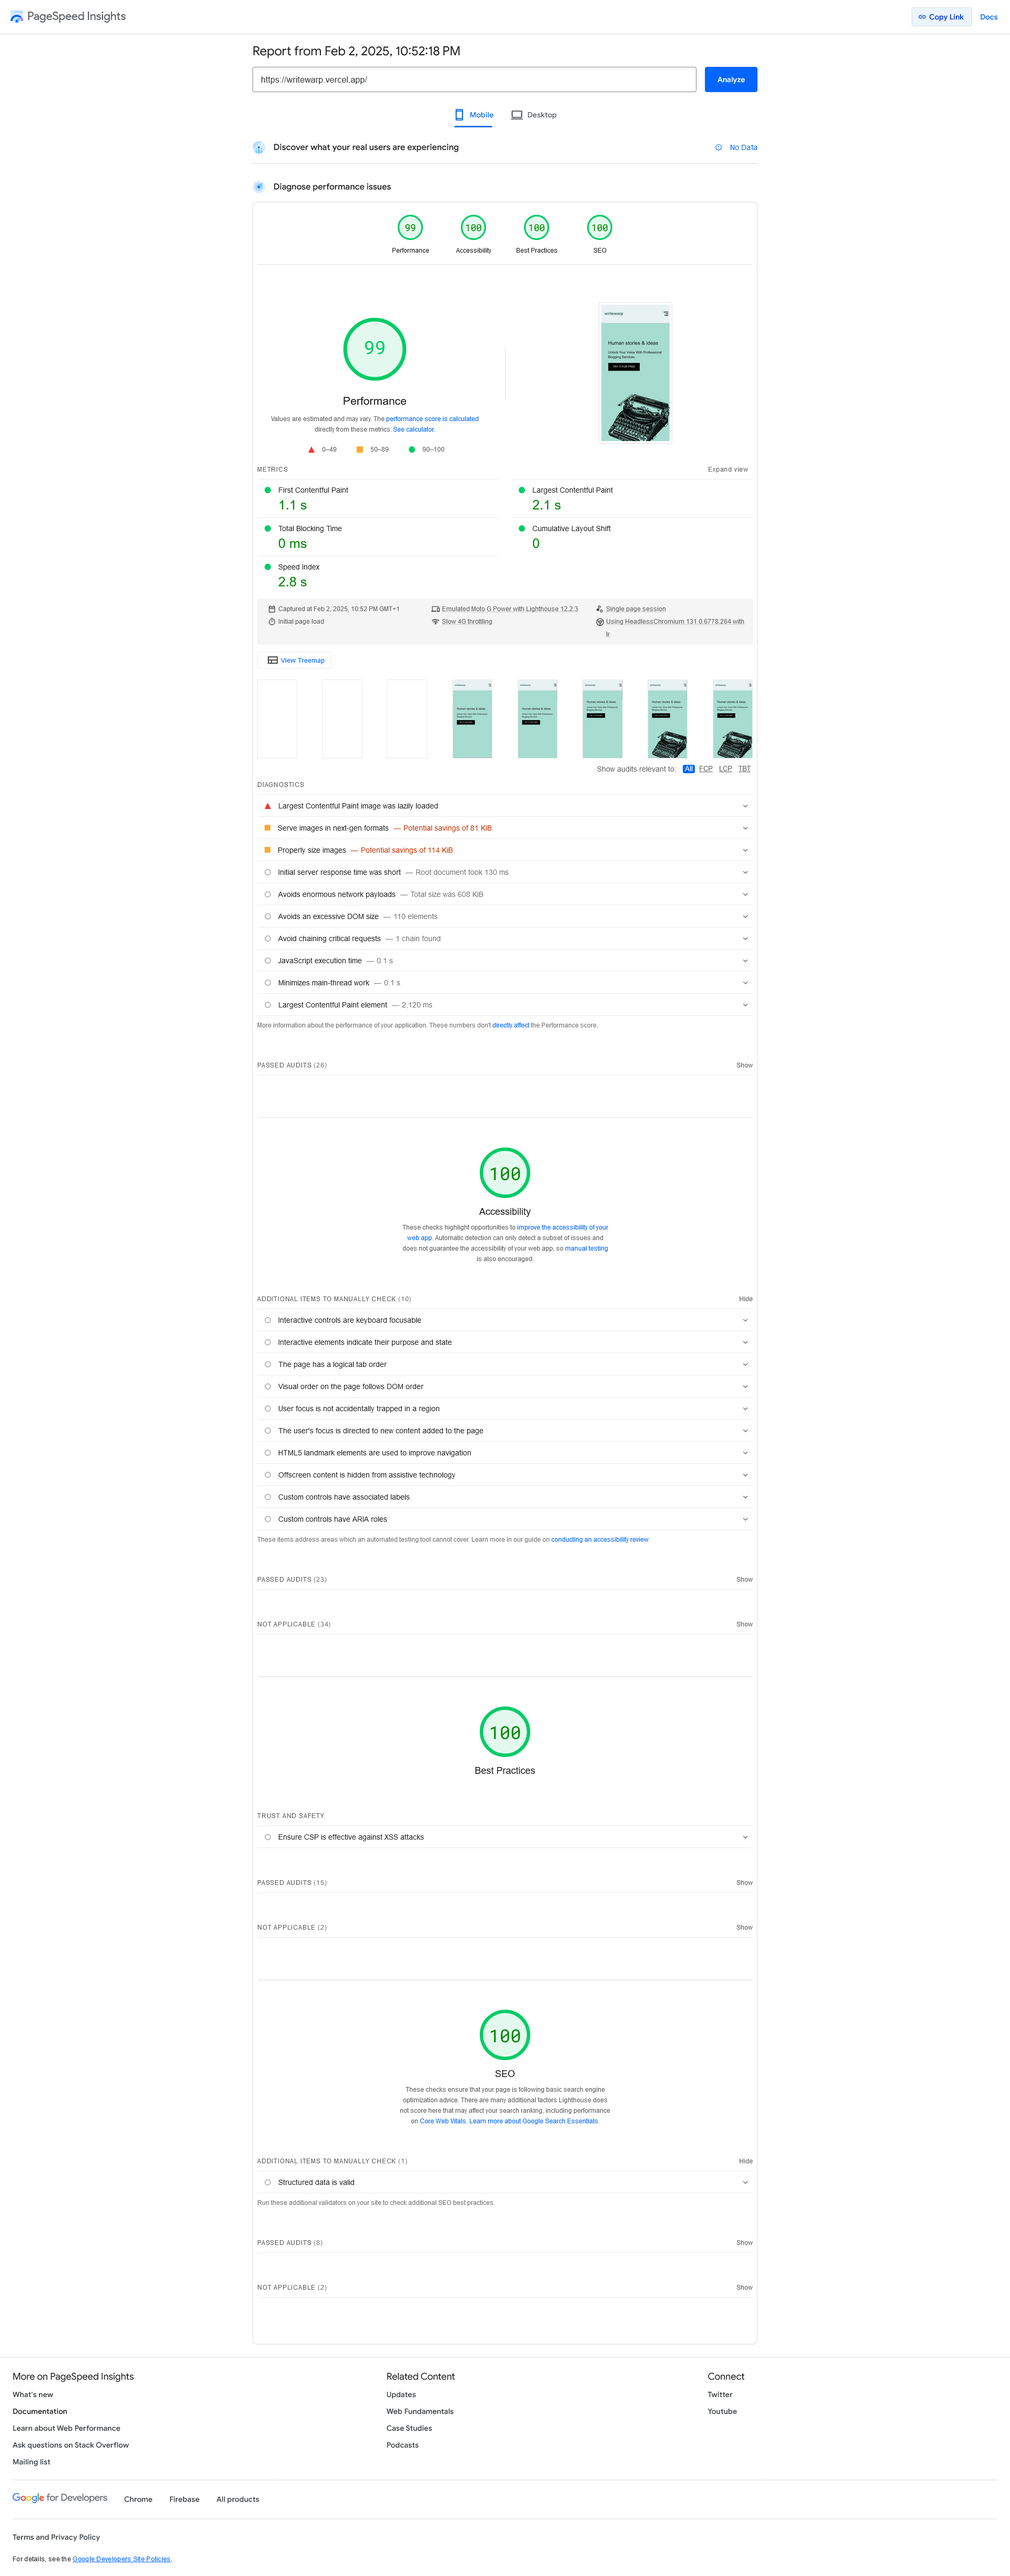
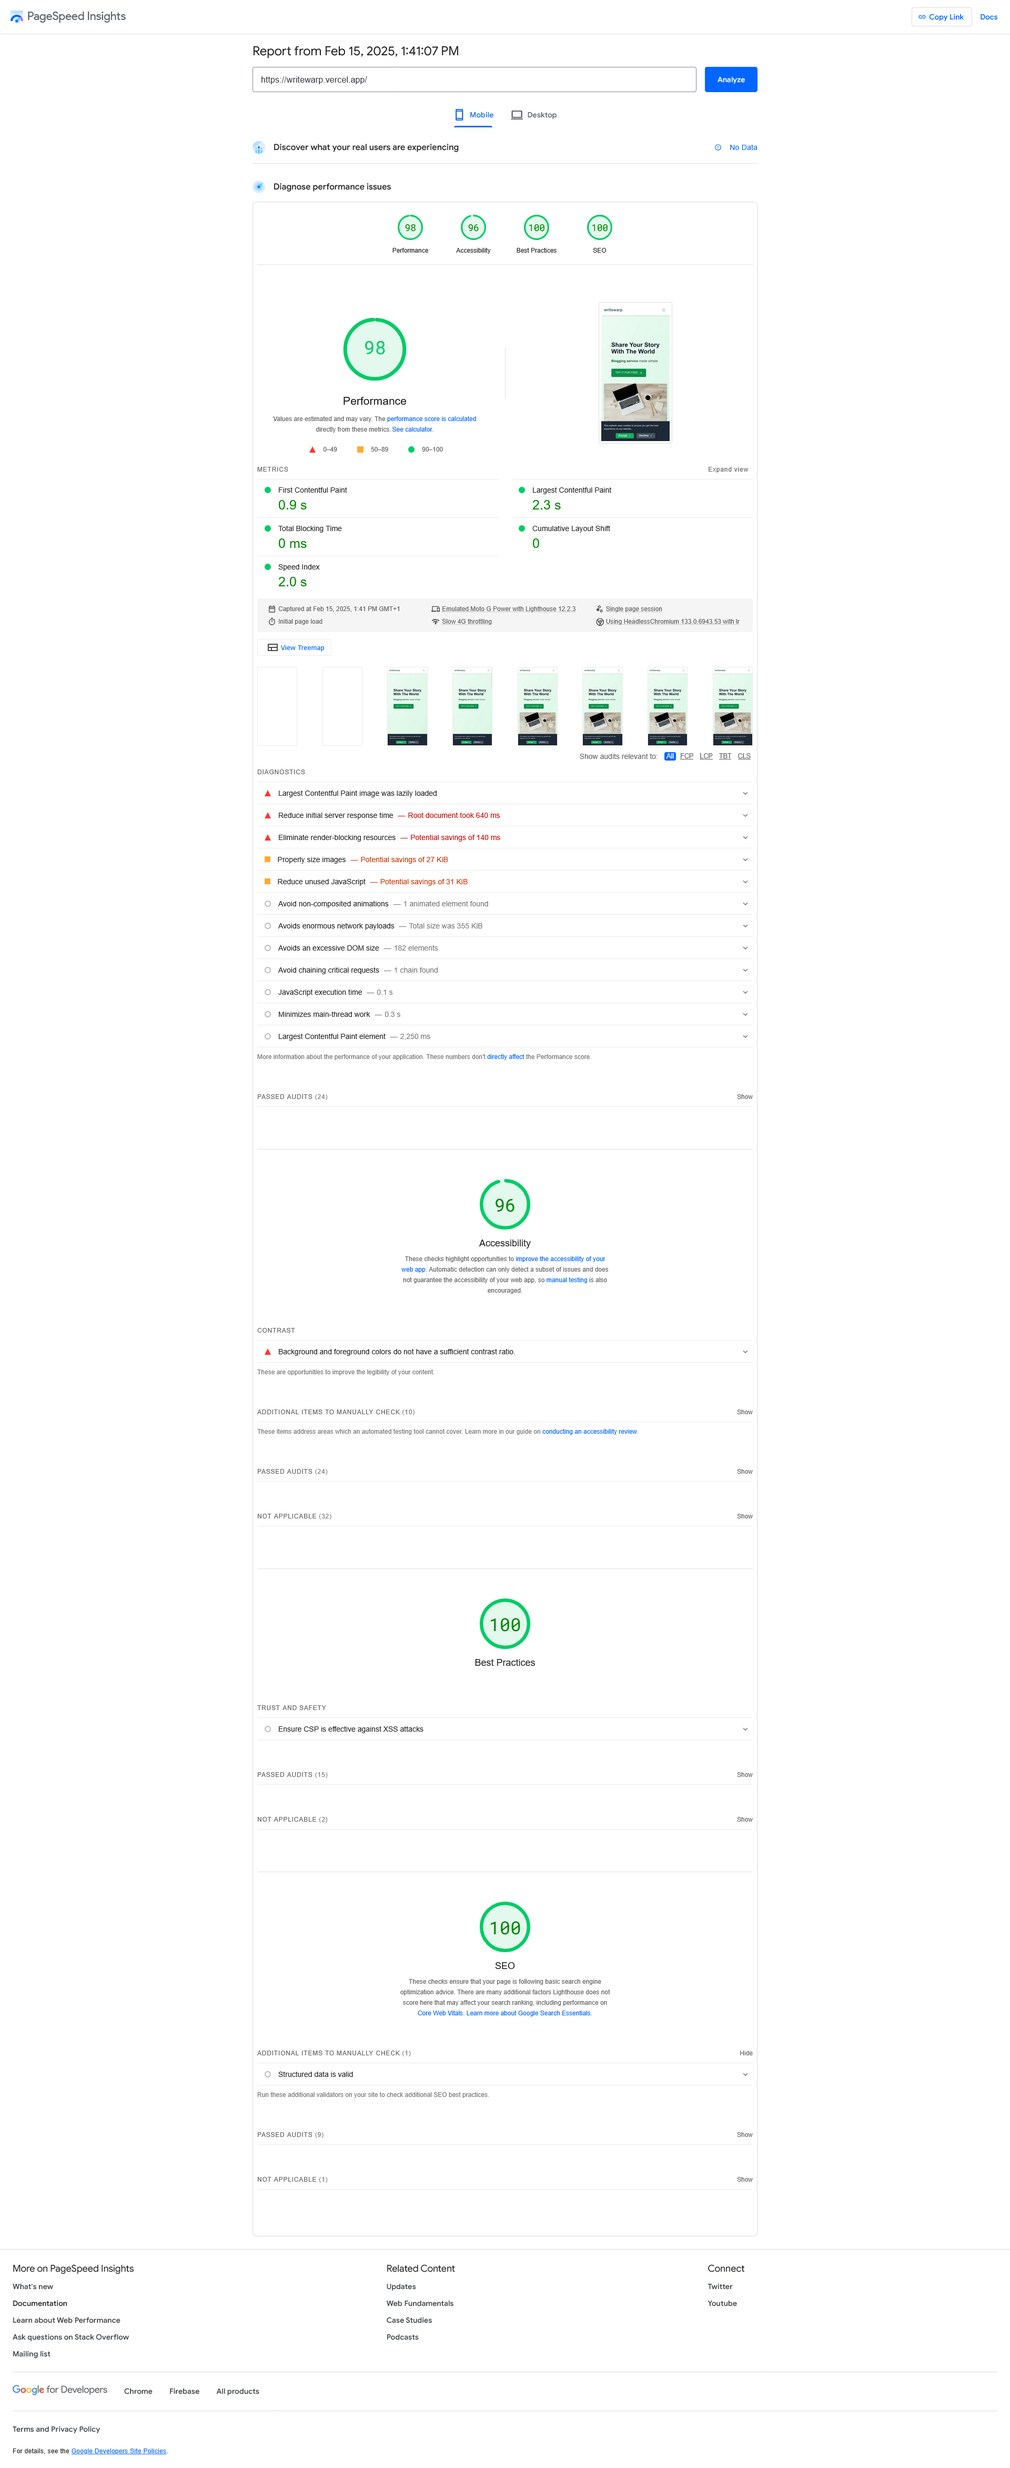
Added new high-fidelity and low-fidelity design assets; updated documentation

diff --git a/docs/design_principles.md b/docs/design_principles.md
@@ -1,0 +1,93 @@
+<details>
+  <summary>Basic Design Principles</summary>
+Throughout our project, we applied several basic design principles to enhance user experience and interface design:
+
+1. **Consistency**: We maintained a consistent color scheme, typography, and button styles across all pages (sign-in, sign-up, profile, navigation).
+
+2. **Hierarchy**: Important elements like headings and call-to-action buttons were given visual prominence through size and color.
+
+3. **Contrast**: We used contrasting colors for text and backgrounds to ensure readability, particularly in the navigation and form elements.
+
+4. **Alignment**: Form elements, buttons, and text were carefully aligned to create a clean, organized layout.
+
+5. **Proximity**: Related elements were grouped together, such as form fields and their labels.
+</details>
+
+<details>
+    <summary>Norman's 7 Strategies</summary>
+We incorporated Donald Norman's 7 principles of design in the following ways:
+
+1. **Discoverability**: Navigation items and form inputs were clearly visible and labeled.
+
+2. **Feedback**: Buttons had hover states to indicate interactivity.
+
+3. **Conceptual Model**: The layout and flow of the sign-in and sign-up pages followed common web conventions, making it intuitive for users.
+
+4. **Affordances**: Buttons were styled to look clickable, and input fields were designed to appear editable.
+
+5. **Signifiers**: Labels and placeholders were used to indicate the purpose of each form field.
+
+6. **Mappings**: The logical order of form fields (e.g., name, email, password) mapped to users' mental models of account creation.
+
+7. **Constraints**: Required fields were marked to constrain user actions and prevent errors.
+</details>
+
+<details>
+    <summary>Heuristic Evaluation</summary>
+Applying Nielsen's heuristics, we can evaluate our design as follows:
+
+1. **Visibility of System Status**: The active page is highlighted in the navigation.
+
+2. **Match Between System and Real World**: We used familiar terms like "Sign In" and "Sign Up".
+
+3. **User Control and Freedom**: Users can easily navigate between sign-in and sign-up pages.
+
+4. **Consistency and Standards**: We maintained consistent design patterns across all pages.
+
+5. **Error Prevention**: Required field validation helps prevent errors.
+
+6. **Recognition Rather Than Recall**: Form labels and placeholders reduce cognitive load.
+
+7. **Flexibility and Efficiency of Use**: The navigation provides quick access to key pages.
+
+8. **Aesthetic and Minimalist Design**: We kept the design clean and focused on essential elements.
+
+9. **Help Users Recognize, Diagnose, and Recover from Errors**
+
+10. **Help and Documentation**
+</details>
+
+<details>
+    <summary>C.R.A.P. Principles</summary>
+We applied the C.R.A.P. (Contrast, Repetition, Alignment, Proximity) principles as follows:
+
+1. **Contrast**: 
+   - Used contrasting colors for text and backgrounds
+   - Applied different font weights to distinguish headings from body text
+
+2. **Repetition**:
+   - Consistently used the same button styles across all pages
+   - Maintained the same layout structure for sign-in and sign-up forms
+
+3. **Alignment**:
+   - Left-aligned form labels and input fields
+   - Centered the form container and headings on the page
+
+4. **Proximity**:
+   - Grouped related form fields together
+   - Placed submit buttons near the bottom of the forms
+   - Kept navigation items close together in the header
+</details>
+
+<details>
+    <summary>Areas for Improvement</summary>
+While we've applied many design principles effectively, there are areas where we can enhance our application:
+
+1. Implement more robust error handling and feedback mechanisms
+2. Add progress indicators for multi-step processes
+3. Enhance accessibility features, such as ARIA labels and keyboard navigation
+4. Implement a dark mode option to cater to user preferences
+5. Add more micro-interactions to improve user engagement
+
+By addressing these areas, we can further improve the user experience and adhere more closely to established design principles and heuristics.
+</details>

diff --git a/docs/hifi.md b/docs/hifi.md
@@ -1,7 +1,21 @@
 # High-Fidelity models
 
-## Desktop
+## First Iteration
+
+First iteration shows initial design for the landing page.
+
+### Desktop
 ![High-Fidelity Model - Desktop](assets/hifi_desktop.png)
 
-## Mobile
+### Mobile
 ![High-Fidelity Model - Mobile](assets/hifi_mobile.png)
+
+## Second Iteration
+
+Second iteration shows final design for the landing page.
+
+### Desktop
+![High-Fidelity Model - Desktop New](assets/hifi_desktop_new.png)
+
+### Mobile
+![High-Fidelity Model - Mobile New](assets/hifi_mobile_new.png)

diff --git a/docs/index.md b/docs/index.md
@@ -1,8 +1,10 @@
 # WriteWarp
 
-- [User personas](personas.md)
-- [Sitemap](sitemap.md)
-<!-- - [Low-fidelity models](lofi.md) -->
-- [High-fidelity models](hifi.md)
-- [PageSpeed Insights](pagespeed.md)
-- [Software used](software_used.md)
+1. [User personas](personas.md)
+1. [Sitemap](sitemap.md)
+1. [Low-fidelity models](lofi.md)
+1. [High-fidelity models](hifi.md)
+1. [Screenshots of Pages](pages.md)
+1. [PageSpeed Insights](pagespeed.md)
+1. [Design principles](design_principles.md)
+1. [Software used](software_used.md)

diff --git a/docs/lofi.md b/docs/lofi.md
@@ -1,0 +1,21 @@
+# Low-Fidelity models
+
+## First Iteration
+
+First iteration shows initial design for the landing page.
+
+### Desktop
+![Low-Fidelity Model - Desktop](assets/lofi_desktop.png)
+
+### Mobile
+![Low-Fidelity Model - Mobile](assets/lofi_mobile.png)
+
+## Second Iteration
+
+Second iteration shows final design for the landing page.
+
+### Desktop
+![Low-Fidelity Model - Desktop New](assets/lofi_desktop_new.png)
+
+### Mobile
+![Low-Fidelity Model - Mobile New](assets/lofi_mobile_new.png)

diff --git a/docs/pages.md b/docs/pages.md
@@ -1,0 +1,22 @@
+# Screenshots of Pages
+
+## Landing Page
+![Landing Page](assets/pages/home.png)
+
+## Explore
+![Explore](assets/pages/explore.png)
+
+## Example Post
+![Example Post](assets/pages/post.png)
+
+## Pricing
+![Pricing](assets/pages/pricing.png)
+
+## Profile
+![Profile](assets/pages/profile.png)
+
+## Sign Up
+![Sign Up](assets/pages/sign_up.png)
+
+## Sign In
+![Sign In](assets/pages/sign_in.png)
